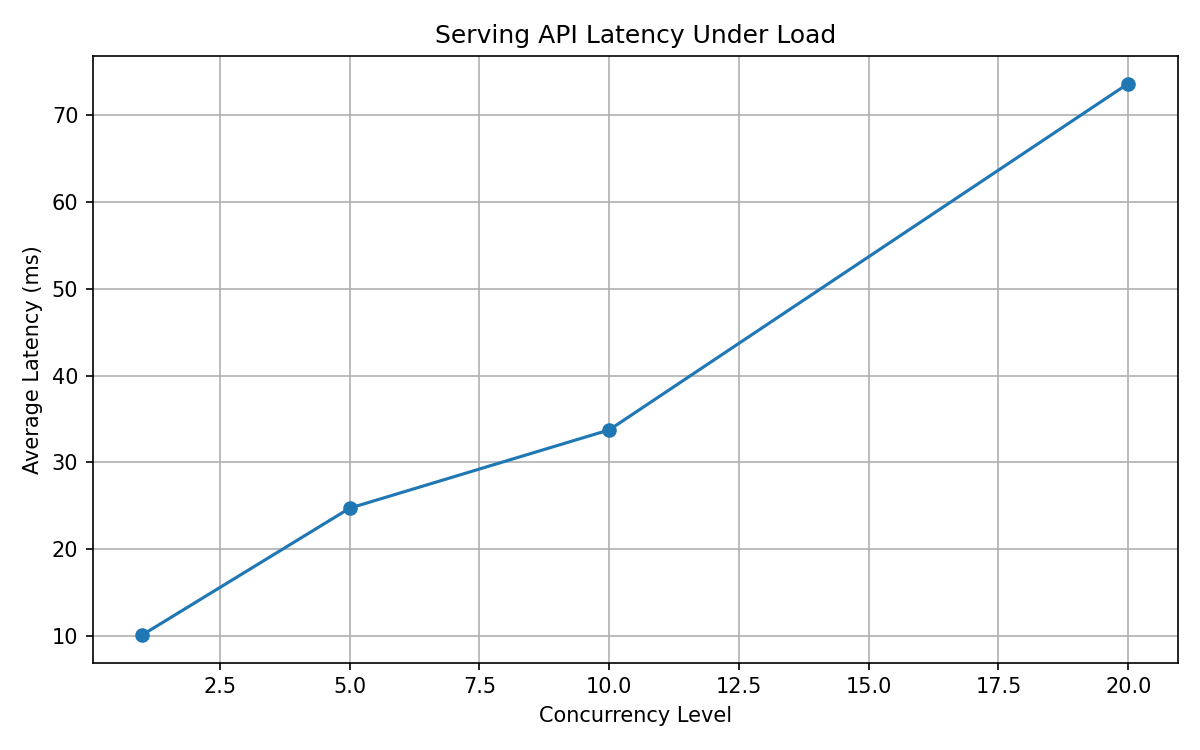
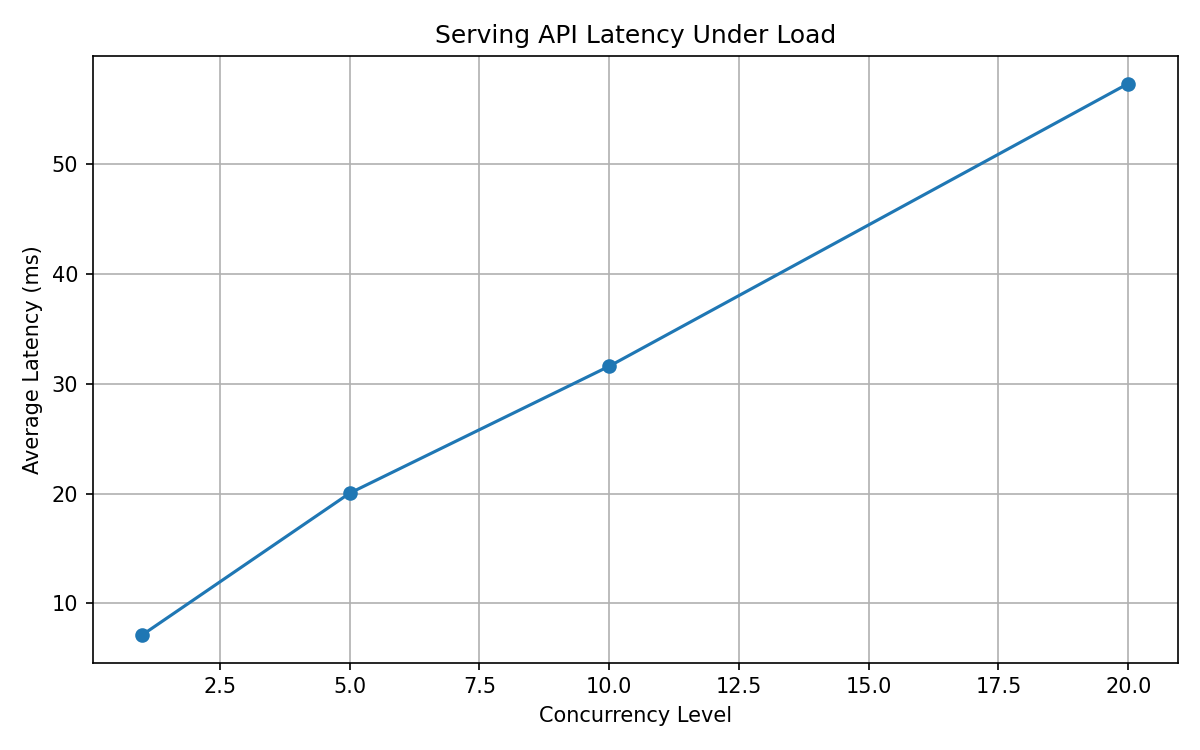
final edits

diff --git a/speed_layer/stream_processor.py b/speed_layer/stream_processor.py
@@ -16,7 +16,7 @@ This runs as a long-lived process.
 Usage:
     python speed_layer/stream_processor.py
 """
-
+from __future__ import annotations
 import json
 import time
 import logging
@@ -26,6 +26,7 @@ import os
 import threading
 from collections import defaultdict, deque
 from decimal import Decimal
+import botocore.exceptions
 
 sys.path.insert(0, os.path.join(os.path.dirname(__file__), ".."))
 from config.config import (
@@ -105,30 +106,68 @@ CACHE_TTL_MINUTES = 10
 
 
 def get_batch_baseline(route_id: str) -> float | None:
-    """
-    Look up the historical average delay for a route from DynamoDB (batch view).
-    Results cached locally for CACHE_TTL_MINUTES to avoid excess reads.
-    """
+
     global _cache_ts
+    global dynamo, batch_table, speed_table
 
     now = datetime.datetime.utcnow()
+
+    # Return cached value if still valid
     if _cache_ts and (now - _cache_ts).seconds < CACHE_TTL_MINUTES * 60:
         return _batch_baseline_cache.get(route_id)
 
-    try:
-        # Query batch table for current day-of-week + hour
-        time_bucket = f"{now.strftime('%A')}_{now.hour:02d}"
-        response = batch_table.get_item(
-            Key={"route_id": route_id, "time_bucket": time_bucket}
-        )
-        item = response.get("Item")
-        if item:
-            baseline = float(item.get("avg_delay_seconds", 0))
-            _batch_baseline_cache[route_id] = baseline
-            _cache_ts = now
-            return baseline
-    except Exception as e:
-        logger.warning(f"Batch baseline lookup failed for {route_id}: {e}")
+    time_bucket = f"{now.strftime('%A')}_{now.hour:02d}"
+
+    for attempt in range(2):
+
+        try:
+            response = batch_table.get_item(
+                Key={
+                    "route_id": route_id,
+                    "time_bucket": time_bucket
+                }
+            )
+
+            item = response.get("Item")
+
+            if item:
+                baseline = float(item.get("avg_delay_seconds", 0))
+                _batch_baseline_cache[route_id] = baseline
+                _cache_ts = now
+                return baseline
+
+            return None
+
+        except botocore.exceptions.ClientError as e:
+
+            error_code = e.response.get("Error", {}).get("Code")
+
+            if (
+                error_code == "UnrecognizedClientException"
+                and attempt == 0
+            ):
+                logger.warning(
+                    "Detected stale AWS credentials. "
+                    "Refreshing DynamoDB session and retrying..."
+                )
+
+                dynamo = get_dynamodb_resource()
+                speed_table = dynamo.Table(DYNAMO_SPEED_TABLE)
+                batch_table = dynamo.Table(DYNAMO_BATCH_TABLE)
+
+                continue
+
+            logger.warning(
+                f"Batch baseline lookup failed for {route_id}: {e}"
+            )
+            return None
+
+        except Exception as e:
+            logger.warning(
+                f"Batch baseline lookup failed for {route_id}: {e}"
+            )
+            return None
+
 
     return None
 

diff --git a/serving_layer/benchmark.py b/serving_layer/benchmark.py
@@ -402,6 +402,8 @@ def run_throughput_benchmark():
         results
 
     )
+    
+    plot_throughput(results)
 
 
 
@@ -1150,7 +1152,33 @@ def wait_for_step(step_id):
 
 
 
+def plot_throughput(results):
 
+    if not results:
+        print("No throughput results. Chart not created.")
+        return
+
+    ensure_results_dir()
+
+    rates = [r["target_rate"] for r in results]
+    actual = [r["actual_rps"] for r in results]
+
+    plt.figure(figsize=(8,5))
+
+    plt.plot(rates, actual, marker="o", color="crimson", label="Actual throughput")
+    plt.plot(rates, rates, linestyle="--", color="gray", label="Ideal (1:1)")
+
+    plt.xlabel("Target Ingestion Rate (records/sec)")
+    plt.ylabel("Actual Throughput (records/sec)")
+    plt.title("Kinesis Ingestion Throughput vs Target Rate\nDublin Bus Analytics Pipeline")
+    plt.legend()
+    plt.grid(True, alpha=0.3)
+    plt.tight_layout()
+
+    plt.savefig(f"{RESULTS_DIR}/throughput_chart.png", dpi=150)
+    plt.close()
+
+    print(f"Saved {RESULTS_DIR}/throughput_chart.png")
 
 def plot_speedup(results):
 

diff --git a/batch_layer/spark_batch_job.py b/batch_layer/spark_batch_job.py
@@ -191,7 +191,7 @@ def run_batch_job(
         # Controls shuffle parallelism
         .config(
             "spark.sql.shuffle.partitions",
-            partitions
+            str(partitions)
         )
 
 
@@ -391,25 +391,13 @@ def run_batch_job(
 
 
 
-
-
     route_stats.write \
-
-        .mode(
-            "overwrite"
-        ) \
-
+        .mode("overwrite") \
         .parquet(
-
-            f"{output_path}/route_statistics/"
-
+            f"{output_path.rstrip('/')}/route_statistics/"
         )
 
-
-
-    logger.info(
-        "Route statistics written"
-    )
+    logger.info("Route statistics written")
 
 
 
@@ -469,22 +457,15 @@ def run_batch_job(
 
 
     top_routes.write \
-
-        .mode(
-            "overwrite"
-        ) \
-
+        .mode("overwrite") \
         .parquet(
-
-            f"{output_path}/top_delayed_routes/"
-
+            f"{output_path.rstrip('/')}/top_delayed_routes/"
         )
 
+    logger.info("Top delayed routes written")
 
 
-    logger.info(
-        "Top delayed routes written"
-    )
+
 
 
 

diff --git a/config/config.py b/config/config.py
@@ -13,7 +13,7 @@ through boto3/IAM credentials.
 # Transport for Ireland API
 # ==========================
 
-TFI_API_KEY = "61d3064e1b2e478eac2ef4d2ca14ce26"
+TFI_API_KEY = "3366eb5c3e8244f89f65a29278a8ddb9"
 
 TFI_TRIP_UPDATES_URL = (
     "https://api.nationaltransport.ie/gtfsr/v2/TripUpdates"
@@ -27,7 +27,7 @@ TFI_STATIC_GTFS_URL = (
     "https://www.transportforireland.ie/transitData/Data/GTFS_Realtime.zip"
 )
 
-POLL_INTERVAL_SECONDS = 30
+POLL_INTERVAL_SECONDS = 60
 
 
 # ==========================
@@ -54,7 +54,7 @@ KINESIS_PARTITION_KEY = "route_id"
 # ==========================
 
 # Must be globally unique in AWS
-S3_BUCKET_NAME = "dublin-bus-analytics-shritiz-nci-20260708vkjkdfnvcx"
+S3_BUCKET_NAME = "dublin-bus-analytics-bucket-x24101001"
 
 S3_RAW_PREFIX = "raw/"
 
@@ -138,6 +138,7 @@ KINESIS_BACKLOG_SCALE_TRIGGER = 1000
 DASHBOARD_REFRESH_SECONDS = 30
 
 
-EMR_CLUSTER_ID =  "j-2WE8OJJGR6KPC"
+EMR_CLUSTER_ID =  "j-3K4RE7LKI7RTW"
 
 EMR_BATCH_JOB_SCRIPT_S3_PATH = "scripts/spark_batch_job.py"
+

diff --git a/ingestion/producer.py b/ingestion/producer.py
@@ -42,7 +42,7 @@ def fetch_trip_updates() -> list[dict]:
         "Cache-Control": "no-cache"
     }
     try:
-        response = requests.get(TFI_TRIP_UPDATES_URL, headers=headers, timeout=15)
+        response = requests.get(TFI_TRIP_UPDATES_URL, headers=headers, timeout=15, verify=False)
         response.raise_for_status()
     except requests.RequestException as e:
         logger.error(f"Failed to fetch TripUpdates: {e}")
@@ -97,7 +97,7 @@ def fetch_vehicle_positions() -> list[dict]:
     """Fetch live vehicle positions and merge into records."""
     headers = {"x-api-key": TFI_API_KEY}
     try:
-        response = requests.get(TFI_VEHICLE_POSITIONS_URL, headers=headers, timeout=15)
+        response = requests.get(TFI_VEHICLE_POSITIONS_URL, headers=headers, timeout=15, verify=False)
         response.raise_for_status()
     except requests.RequestException as e:
         logger.warning(f"Vehicle positions unavailable: {e}")

diff --git a/README.md b/README.md
@@ -88,6 +88,10 @@ dublin-bus-analytics/
 
 ### 1. Prerequisites
 
+
+Set-Location C:\Users\anima\Documents\GitHub\dublin-bus-analytics
+.\venv\Scripts\Activate.ps1
+
 ```bash
 pip install -r requirements.txt
 ```
